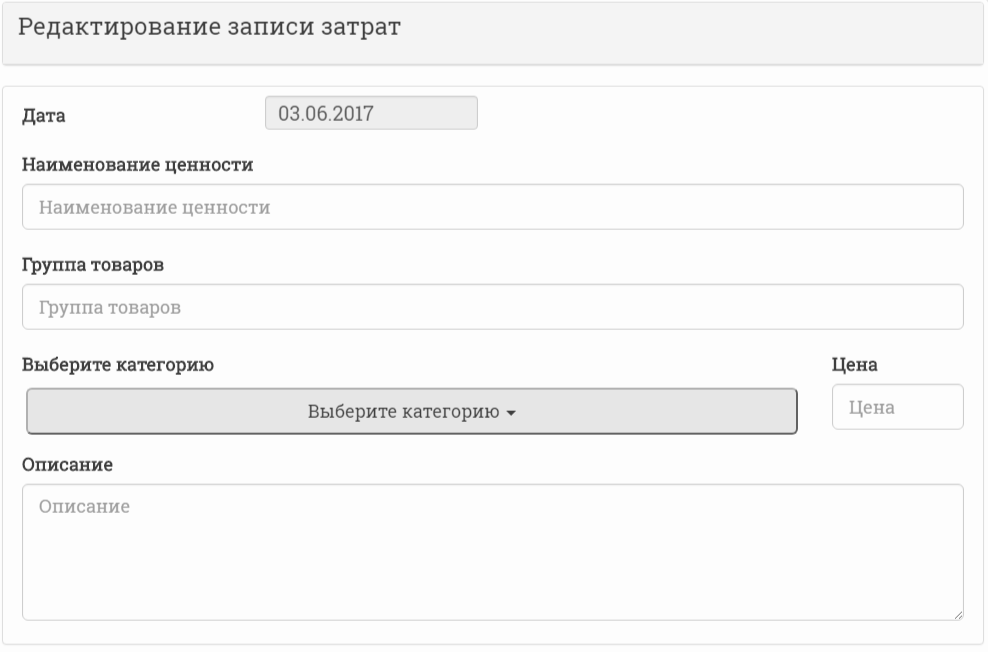
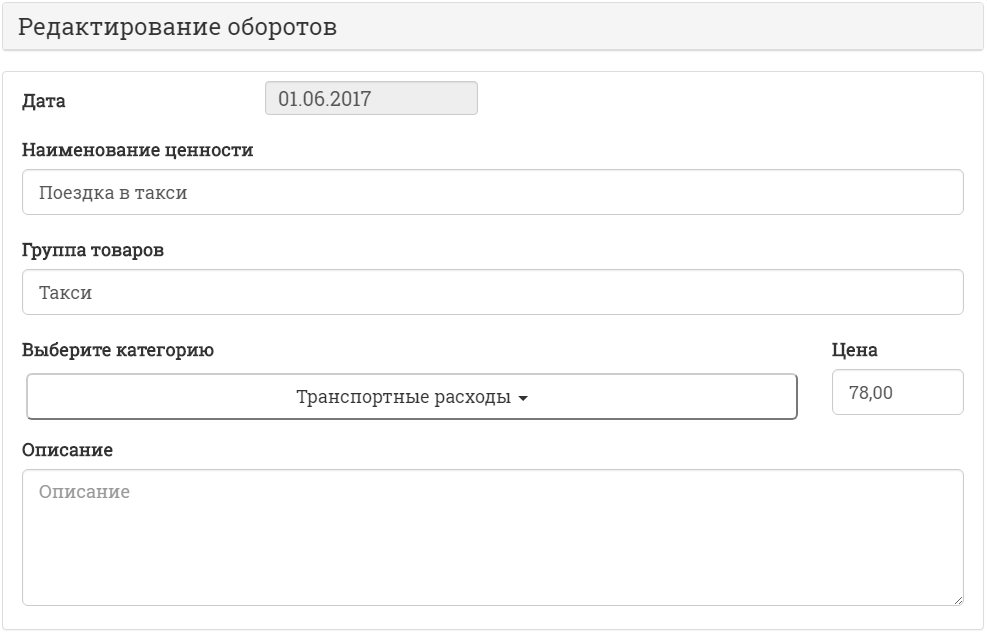
fix crud's bugs & front-end

diff --git a/src/main/web/resources/js/web.account.functions.js b/src/main/web/resources/js/web.account.functions.js
@@ -126,9 +126,9 @@ function drawBarsByParentId(isChildren, categoryId, after, before) {
 
                     var elemLink;
                     if (classType == 'Product') {
-                        classTitle = "Товарная группа";
+                        classTitle = "Группа товаров";
                         //elemLink = 	"<a href='javascript:getViewProduct(" + classId + ");'>" +
-                        elemLink = "<a href='/page-product/" + classId + "?after=" + after + "&before=" + before + "'>" +
+                        elemLink = "<a href='/page-product/" + classId + "?categoryId=" + categoryId + "&after=" + after + "&before=" + before + "'>" +
                             "<span> (Просмотреть</span>" +
                             "</a>" + ", " +
                             "<a href='/product?id=" + classId + "'>" +
@@ -503,7 +503,7 @@ function displayManual(message, pageNum) {
         "</div>"
     );
     var nextNum = pageNum + 1;
-    if (nextNum < 9)
+    if (nextNum < 10)
         $('#modalFooter').append(
             "<div class='col-xs-12 col-md-4 wam-not-padding'>" +
             "<button class='btn btn-primary btn-lg btn-block'  " +
@@ -521,4 +521,14 @@ function displayManual(message, pageNum) {
             "</div>"
         );
     $('#modal').modal('show');
+}
+function setModalSize(type){
+    if (type.indexOf("auto") !== -1) {
+        //форматируем модальное окно под авторазмер
+        $('.modal-lg').addClass('wam-modal-dialog');
+        $('.modal-lg').removeClass('modal-dialog');
+    } else {
+        $('.modal-lg').addClass('modal-dialog');
+        $('.modal-lg').removeClass('wam-modal-dialog');
+    }
 }

diff --git a/src/main/web/resources/js/waitingDialog.js b/src/main/web/resources/js/waitingDialog.js
@@ -47,7 +47,9 @@ var waitingDialog = waitingDialog || (function ($) {
 				if (settings.progressType) {
 					$dialog.find('.progress-bar').addClass('progress-bar-' + settings.progressType);
 				}
-				$dialog.find('h3').text(message);
+				$dialog.find('h3').empty();
+				$dialog.find('h3').text('');
+				$dialog.find('h3').append(message);
 				// Adding callbacks
 				if (typeof settings.onHide === 'function') {
 					$dialog.off('hidden.bs.modal').on('hidden.bs.modal', function (e) {

diff --git a/src/main/web/resources/css/style.css b/src/main/web/resources/css/style.css
@@ -365,3 +365,15 @@ div.dataTables_filter {
 	display: table-cell;
 	vertical-align: middle;
 }
+.wam-modal-dialog{
+	position: relative;
+	display: table; /* This is important */
+	overflow-y: auto;
+	overflow-x: auto;
+	width: auto;
+	min-width: 300px;
+	margin: 30px auto;
+}
+#searchDataTable{
+	padding: 7px;
+}

diff --git a/src/main/java/ru/hd/olaf/mvc/controller/ProductController.java b/src/main/java/ru/hd/olaf/mvc/controller/ProductController.java
@@ -10,9 +10,11 @@ import org.springframework.web.bind.annotation.RequestMethod;
 import org.springframework.web.bind.annotation.RequestParam;
 import org.springframework.web.servlet.ModelAndView;
 import ru.hd.olaf.entities.Amount;
+import ru.hd.olaf.entities.Category;
 import ru.hd.olaf.entities.Product;
 import ru.hd.olaf.entities.User;
 import ru.hd.olaf.mvc.service.AmountService;
+import ru.hd.olaf.mvc.service.CategoryService;
 import ru.hd.olaf.mvc.service.ProductService;
 import ru.hd.olaf.mvc.service.SecurityService;
 import ru.hd.olaf.util.LogUtil;
@@ -35,6 +37,8 @@ public class ProductController {
     private AmountService amountService;
     @Autowired
     private SecurityService securityService;
+    @Autowired
+    private CategoryService categoryService;
 
     private static final Logger logger = LoggerFactory.getLogger(ProductController.class);
 
@@ -47,6 +51,7 @@ public class ProductController {
      */
     @RequestMapping(value = "/page-product/{id}", method = RequestMethod.GET)
     public ModelAndView displayPageProduct(@PathVariable("id") Integer id,
+                                           @RequestParam(value = "categoryId") Integer categoryId,
                                            @RequestParam(value = "after") String beginDate,
                                            @RequestParam(value = "before") String endDate) {
         logger.debug(LogUtil.getMethodName());
@@ -64,11 +69,21 @@ public class ProductController {
         if (response.getType() == ResponseType.SUCCESS) {
             product = (Product) response.getEntity();
 
-            List<Amount> amounts = amountService.getByProductAndDate(currentUser, product, after, before);
-            modelAndView.addObject("amounts", amounts);
+            response = categoryService.getById(categoryId);
+            if (response.getType() == ResponseType.SUCCESS) {
+                Category category = (Category) response.getEntity();
 
-            modelAndView.addObject("id", product.getId());
-            modelAndView.addObject("name", product.getName());
+                List<Amount> amounts = amountService.getByProductAndCategoryAndDate(currentUser,
+                        product,
+                        category,
+                        after,
+                        before);
+
+                modelAndView.addObject("amounts", amounts);
+
+                modelAndView.addObject("id", product.getId());
+                modelAndView.addObject("name", product.getName());
+            }
         }
 
         return modelAndView;

diff --git a/src/main/java/ru/hd/olaf/mvc/controller/LimitsController.java b/src/main/java/ru/hd/olaf/mvc/controller/LimitsController.java
@@ -65,7 +65,7 @@ public class LimitsController {
 
         Map<String, String> types = new HashMap<String, String>();
         types.put("category", "Категория");
-        types.put("product", "Товарная группа");
+        types.put("product", "Группа товаров");
         model.addAttribute("types", types);
 
         List<Limit> limits = limitService.getAll();
@@ -137,7 +137,7 @@ public class LimitsController {
 
             if (response.getEntity() != null) {
                 Product product = (Product) response.getEntity();
-                logger.debug(String.format("Родительская товарная группа: %s", product.toString()));
+                logger.debug(String.format("Родительская группа товаров: %s", product.toString()));
 
                 limitForm.setProductId(product);
             } else {
@@ -154,7 +154,7 @@ public class LimitsController {
             for (Object error : bindingResult.getAllErrors()){
 
                 if(error instanceof FieldError) {
-                    message = message + "\n" + messageSource.getMessage((FieldError)error, null);
+                    message = message + "<p>" + messageSource.getMessage((FieldError)error, null) + "</p>";
                 }
             }
 
@@ -178,7 +178,7 @@ public class LimitsController {
 
         Map<String, String> types = new HashMap<String, String>();
         types.put("category", "Категория");
-        types.put("product", "Товарная группа");
+        types.put("product", "Группа товаров");
         modelAndView.addObject("types", types);
 
         List<Category> categories = categoryService.getAll();

diff --git a/src/main/java/ru/hd/olaf/mvc/controller/DataController.java b/src/main/java/ru/hd/olaf/mvc/controller/DataController.java
@@ -375,7 +375,7 @@ public class DataController {
             logger.debug(String.format("Обрабатывается запись: %s", product.toString()));
         } else {
             model.addAttribute("name", "Новая запись");
-            logger.debug(String.format("Товарная группа с id = %d не найдена. ", id));
+            logger.debug(String.format("Группа товаров с id = %d не найдена. ", id));
             return "index";
         }
 
@@ -420,13 +420,13 @@ public class DataController {
             modelAndView.addObject("mergeProduct", mergeProduct);
 
             //TODO: transaction
-            logger.debug(String.format("Товарная группа для объединения: %s", mergeProduct));
+            logger.debug(String.format("Группа товаров для объединения: %s", mergeProduct));
 
             for (Amount amount : amountService.getByProductAndDate(currentUser, mergeProduct, null, null)) {
                 amount.setProductId(productForm);
                 response = utilService.saveEntity(amount);
 
-                logger.debug(String.format("Редактирование записи amount (перевод в другую товарную группу):" +
+                logger.debug(String.format("Редактирование записи amount (перевод в другую группу):" +
                         "результат %s (%s).", response.getType(), response.getMessage()));
             }
 

diff --git a/src/main/java/ru/hd/olaf/mvc/service/impl/MailServiceImpl.java b/src/main/java/ru/hd/olaf/mvc/service/impl/MailServiceImpl.java
@@ -142,7 +142,7 @@ public class MailServiceImpl implements MailService {
 
         if (entity instanceof Product) {
             Product product = (Product) entity;
-            logger.debug("Проверяем превышение лимита по товарной группе " + product);
+            logger.debug("Проверяем превышение лимита по группе товаров " + product);
 
             list.addAll(limitService.getLimitsByProduct(user, product));
         } else if (entity instanceof Category) {
@@ -167,7 +167,7 @@ public class MailServiceImpl implements MailService {
             if (entity.getSum().compareTo(entity.getLimit()) >= 0) {
                 String title = "Уведомление о достижении лимита.";
                 String text = "<p class=\"lead text-justify\">Зафиксирован перерасход лимита по " +
-                        (entity.getType().equalsIgnoreCase("product") ? "товарной группе " : "категории ") +
+                        (entity.getType().equalsIgnoreCase("product") ? "группе товаров " : "категории ") +
                         " <strong>" + entity.getName() + "</strong>. </p> " +
                         "<div class=\"wam-margin-top-2\">" +
                         "<p class=\"lead wam-margin-bottom-0\">Установленный лимит: " + entity.getLimit() + " руб.</p>" +

diff --git a/src/main/java/ru/hd/olaf/mvc/service/impl/AmountServiceImpl.java b/src/main/java/ru/hd/olaf/mvc/service/impl/AmountServiceImpl.java
@@ -102,6 +102,28 @@ public class AmountServiceImpl implements AmountService {
         return amounts;
     }
 
+    public List<Amount> getByProductAndCategoryAndDate(User user, Product product, Category category, LocalDate after, LocalDate before) {
+        logger.debug(LogUtil.getMethodName());
+
+        after = after == null ? LocalDate.of(1900, 1, 1) : after;
+        before = before == null ? LocalDate.now() : before;
+
+        logger.debug(String.format("Dates interval: %s - %s", after.toString(), before.toString()));
+
+        Date begin = DateUtil.getDate(after);
+        Date end = DateUtil.getDate(before);
+
+        List<Amount> amounts = Lists.newArrayList(amountRepository.findByProductIdAndCategoryIdAndUserIdAndDateBetween(
+                product,
+                category,
+                user,
+                begin,
+                end
+        ));
+
+        return amounts;
+    }
+
     public List<Amount> getByDate(User user, LocalDate after, LocalDate before) {
         logger.debug(LogUtil.getMethodName() + String.format(". Интервал: %s - %s", after, before));
 

diff --git a/src/main/java/ru/hd/olaf/mvc/service/impl/ProductServiceImpl.java b/src/main/java/ru/hd/olaf/mvc/service/impl/ProductServiceImpl.java
@@ -157,8 +157,8 @@ public class ProductServiceImpl implements ProductService {
         try {
             User currentUser = securityService.findLoggedUser();
             if (amountService.getByProductAndDate(currentUser, product, null, null).size() > 0)
-                return new JsonResponse(ResponseType.ERROR, "Откат удаления: обнаружены существующие записи amount " +
-                        "с данной товарной группой");
+                return new JsonResponse(ResponseType.ERROR, "Откат удаления: обнаружены существующие обороты " +
+                        "с данной группой товаров");
 
             productRepository.delete(product.getId());
             return new JsonResponse(ResponseType.SUCCESS, "Удаление успешно завершено.");

diff --git a/src/main/java/ru/hd/olaf/mvc/repository/AmountRepository.java b/src/main/java/ru/hd/olaf/mvc/repository/AmountRepository.java
@@ -30,6 +30,8 @@ public interface AmountRepository extends CrudRepository<Amount, Integer> {
     @Query("Select a from Amount a where a.productId = ?1 and a.userId = ?2 and a.date between ?3 and ?4")
     List<Amount> findByProductIdAndUserIdAndDateBetween(Product product, User user, Date after, Date before);
 
+    @Query("Select a from Amount a where a.productId = ?1 and a.categoryId = ?2 and a.userId = ?3 and a.date between ?4 and ?5")
+    List<Amount> findByProductIdAndCategoryIdAndUserIdAndDateBetween(Product product, Category category, User user, Date after, Date before);
 
     @Query("SELECT new ru.hd.olaf.util.json.BarEntity(" +
                 "'Product', " +

diff --git a/src/main/java/ru/hd/olaf/mvc/service/impl/CategoryServiceImpl.java b/src/main/java/ru/hd/olaf/mvc/service/impl/CategoryServiceImpl.java
@@ -228,7 +228,7 @@ public class CategoryServiceImpl implements CategoryService {
         //Проверка существуют ли записи amount с данной категорией
         if (category.getAmounts().size() > 0) {
             String message = String.format("Удаление невозможно: к данной категории привязаны " +
-                    "один или несколько записей таблицы amounts ");
+                    "один или несколько оборотов ");
             logger.debug(message);
 
             throw new CrudException(message);

diff --git a/src/main/java/ru/hd/olaf/mvc/service/AmountService.java b/src/main/java/ru/hd/olaf/mvc/service/AmountService.java
@@ -28,6 +28,8 @@ public interface AmountService {
 
     List<Amount> getByProductAndDate(User user, Product product, LocalDate after, LocalDate before);
 
+    List<Amount> getByProductAndCategoryAndDate(User user, Product product, Category category, LocalDate after, LocalDate before);
+
     List<Amount> getByCategoryAndProduct(Category category, Product product);
 
     List<Amount> getByCategory(Category category);
